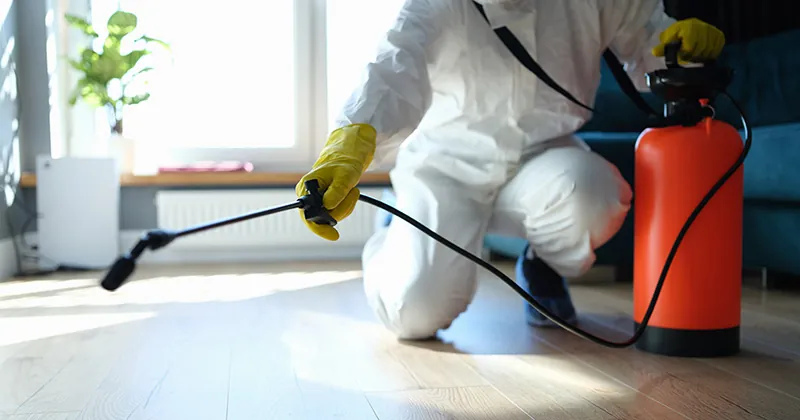
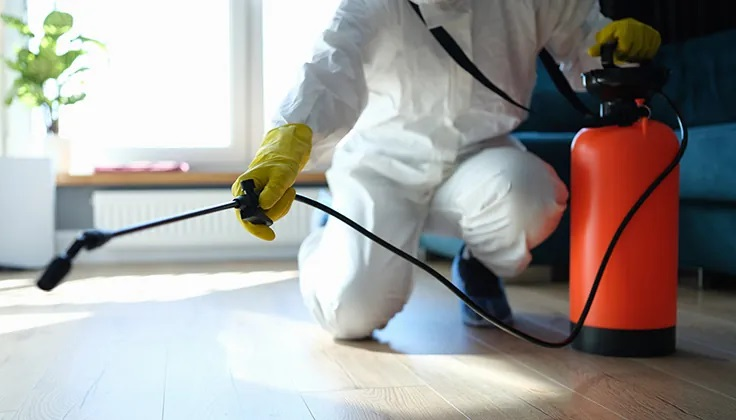
feat(CarouselImg): add component

diff --git a/app/sections/company.tsx b/app/sections/company.tsx
@@ -1,10 +1,9 @@
 import Image from "next/image";
-
 import { Wave } from "../components/wave";
 import { SectionWrapper } from "../sectionWrapper";
 import { SkewedText } from "../components/skewedText";
 import { siteConfig } from "../config/site";
-import fumigationImg from "../../public/fumigation02.jpg";
+import { CarouselImages } from "../components/carousel-images";
 
 const data = [
   {
@@ -34,9 +33,9 @@ export const Company = () => {
 
       <div className="container flex items-center overflow-hidden rounded-md h-1/2">
         <div
-          className="relative z-10 flex flex-col items-center justify-center w-full h-full gap-4 p-12 text-center bg-primary"
-          // className="relative z-10 flex flex-col items-center justify-center w-full h-full gap-4 p-12 text-center border-r-8 bg-primary border-r-primary"
-          // style={{ borderRightWidth: "32px" }}
+          className="relative z-10 flex flex-col items-center justify-center w-full h-full gap-4 p-12 text-center rounded-md bg-primary"
+        // className="relative z-10 flex flex-col items-center justify-center w-full h-full gap-4 p-12 text-center border-r-8 bg-primary border-r-primary"
+        // style={{ borderRightWidth: "32px" }}
         >
           <h2 className="text-6xl italic font-bold text-gray-900 w-fit">
             Nosotros
@@ -60,15 +59,16 @@ export const Company = () => {
             className="absolute z-10 w-full h-full top-50 bg-primary top-[-1px]"
             style={{ clipPath: "polygon(0 0, 0% 0, 15% 0%, 0% 100%)" }}
           /> */}
-          <div className="flex items-center justify-center w-full h-full bg-gray-300">
-            <Image
+          <div className="flex items-center justify-center w-full h-full">
+            <CarouselImages />
+            {/* <Image
               alt=""
               // className="absolute inset-0" // This ensures the image fills the container
               // objectFit="cover" // This ensures the image covers the entire container
               // objectPosition="right"
               fill
               src={fumigationImg}
-            />
+            /> */}
           </div>
         </div>
       </div>

diff --git a/app/components/carousel-images.tsx b/app/components/carousel-images.tsx
@@ -1,0 +1,58 @@
+"use client";
+
+import React from "react";
+import useEmblaCarousel from "embla-carousel-react";
+import { EmblaOptionsType } from "embla-carousel";
+import Autoplay from "embla-carousel-autoplay";
+import Image from "next/image";
+
+// Images
+import fumigationImg from "../../public/fumigation02.jpg"
+import companyImg01 from "../../public/company/company-img-01.jpeg"
+import companyImg02 from "../../public/company/company-img-02.jpeg"
+import companyImg03 from "../../public/company/company-img-03.jpeg"
+
+const slides = [
+  {
+    img: fumigationImg,
+    alt: "Fumigation image",
+  },
+  {
+    img: companyImg01,
+    alt: "Company image 01",
+  },
+  {
+    img: companyImg02,
+    alt: "Company image 02",
+  },
+  {
+    img: companyImg03,
+    alt: "Company image 03",
+  },
+]
+
+export const CarouselImages: React.FC = () => {
+  const carouselOptions: EmblaOptionsType = { loop: true };
+  const [carouselRef] = useEmblaCarousel(carouselOptions, [
+    Autoplay({ delay: 2000, stopOnInteraction: false }),
+  ]);
+
+  return (
+    <div
+      ref={carouselRef}
+      className="z-10 w-full h-full overflow-hidden"
+      style={{ userSelect: "none" }}
+    >
+      <div className="flex h-full gap-4 pl-4">
+        {slides.map((slide, index) => (
+          <Image
+            key={index}
+            alt={slide.alt}
+            className="rounded-lg"
+            src={slide.img}
+          />
+        ))}
+      </div>
+    </div>
+  )
+}
